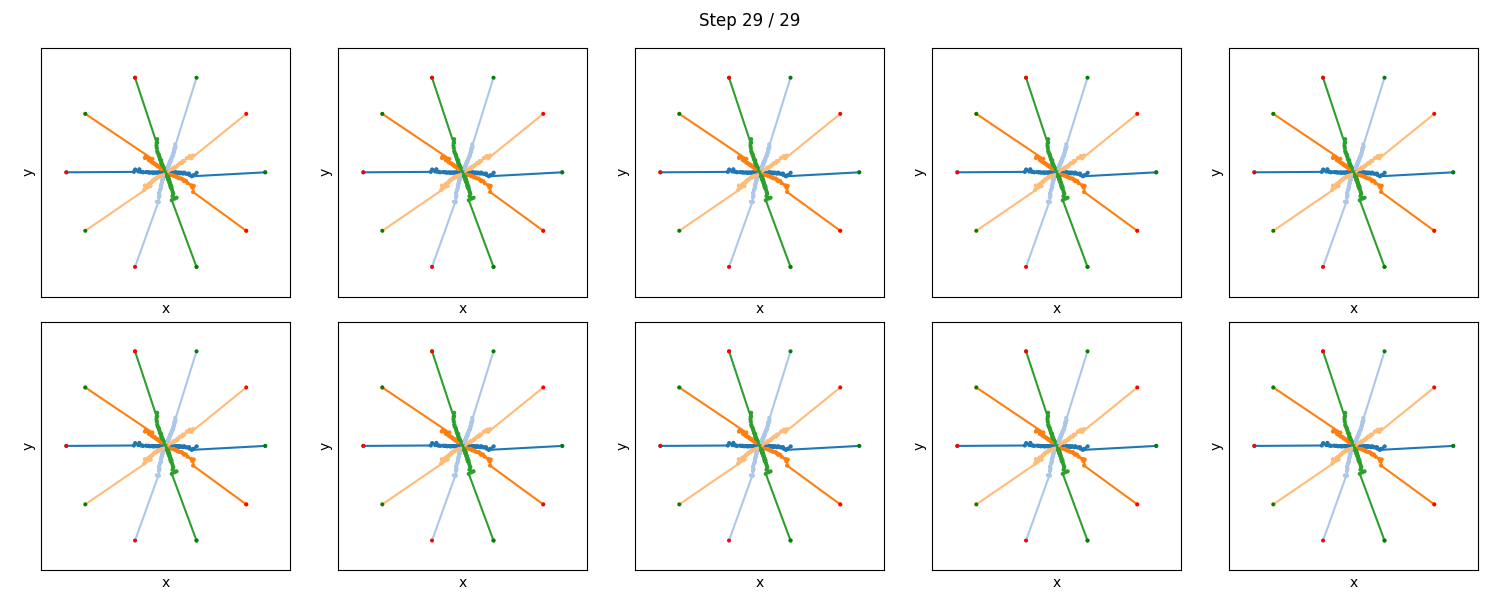
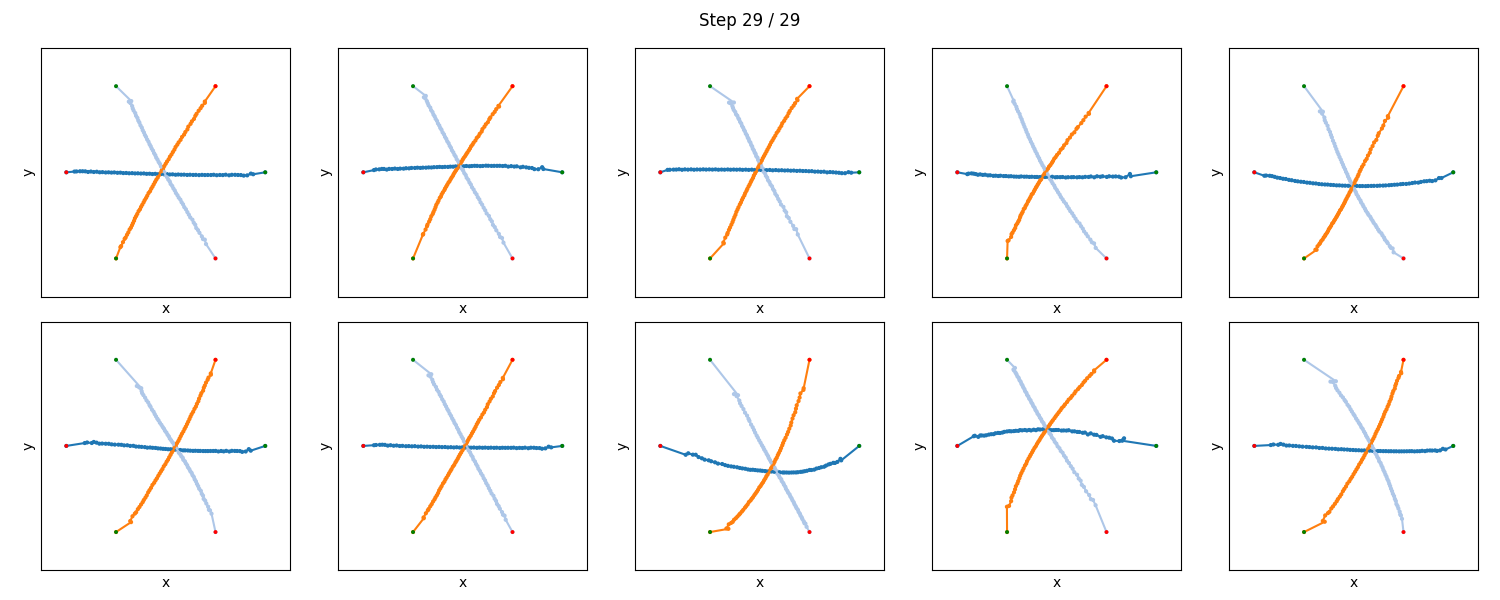
factor seems to work. Try to find the best parameters, and the blend schedule. Add smooth factor if possible

diff --git a/mpd/models/guides/factor_guide_single_agent.py b/mpd/models/guides/factor_guide_single_agent.py
@@ -15,7 +15,6 @@ from pyro import poutine
 from pyro.poutine import trace # debug
 
 # Guide 
-
 class Guide(PyroModule):
     """
         Guide for SVI. 
@@ -28,21 +27,21 @@ class Guide(PyroModule):
         self.agent_idx = agent_idx
         self.device = X_noisy.device
 
-        # Place Holders
-        self.loc = PyroParam(torch.zeros(self.B, self.H-2, self.D, device=self.device, requires_grad=True))
-        self.scales = PyroParam(torch.full((self.B, self.H-2, self.D), 1.0, device=self.device, requires_grad=True),
-                                    constraint=constraints.positive)
+        # Permute Batch as guide
+        perm = torch.randperm(self.B)
+        # X_perm = X_noisy[perm]
+        X_perm = X_noisy
+        self.loc = PyroParam(X_perm[:, agent_idx, 1:-1,]) # (B, H-2, D)
+        self.log_scales = PyroParam(torch.full((self.B, self.H-2, self.D), -1.0, device=self.device),
+                                    constraint=constraints.greater_than(-10))
 
     def forward(self, *args, **kwargs):
 
-        assert self.loc.requires_grad, "Guide.loc is not differentible!" 
-
         # Use initial noisy trajectory as sampling guide
         with pyro.plate("batch", self.B):
-            pyro.sample("z", dist.Normal(self.loc, self.scales).to_event(2))
+            pyro.sample("z", dist.Normal(self.loc, self.log_scales.exp()).to_event(2))
 
 # Model
-
 class FactorModel(PyroModule):
     """
         Collision avoidance model, supports trajectory update
@@ -88,8 +87,8 @@ class FactorModel(PyroModule):
             ], dim=1)
 
             # Collision Avoidance Factor
-            xi = x.unsqueeze(1) # (B, 1, H, D)
-            xj = self.X_noisy   # (B, N, H, D)
+            xi = x[..., :2].unsqueeze(1) # (B, 1, H, 2) only the first two dim are related to position. Same below
+            xj = self.X_noisy[..., :2]   # (B, N, H, 2)
             dists_sq = ((xi - xj) ** 2).sum(dim=-1)  # (B, N, H)
             repulsion = torch.exp(-dists_sq/(2* self.sigma["collision_factor"] ** 2))
             mask = (dists_sq< self.collision_threshold**2).float()
@@ -100,7 +99,6 @@ class FactorModel(PyroModule):
             agent_mask[self.agent_idx] = 0.0
             penalty_terms = penalty_terms * agent_mask.view(1, self.N, 1) # (B, N, H)
             penalty = -self.alpha_bar * penalty_terms.sum(dim=[1, 2]) # (B,)
-
             pyro.factor(f"collsion_{self.agent_idx}", penalty)
         
 # Module 
@@ -149,10 +147,9 @@ class FactorGuideSingleAgent:
         X_noisy = X_noisy.detach()
         num_agents = X_noisy.shape[1]
         X_refined = X_noisy.clone().detach()
-        blend = torch.exp(-alpha_bar**2)
+        # blend = torch.exp(-alpha_bar**2)
         # blend = (1 - alpha_bar)**2  
-        # blend = 1 / (1 + torch.exp(10 * (alpha_bar - 0.5)))
-
+        blend = 1 / (1 + torch.exp(10 * (alpha_bar - 0.5)))
 
         for agent_idx in range(num_agents):
             self.update_inputs(X_noisy=X_noisy, agent_idx=agent_idx, alpha_bar=alpha_bar)
@@ -160,6 +157,8 @@ class FactorGuideSingleAgent:
             goals = X_noisy[:, agent_idx, -1]
             for step in range(self.steps):
                 loss = self.optimizer.step()
+                if step % 500 == 0:
+                    print(f"Step {step} loss:", loss)
             refined_paths = self.guide.loc.detach()
             refined_paths = torch.cat([
                 starts.unsqueeze(1),

diff --git a/scripts/inference/multi_agent_inference.py b/scripts/inference/multi_agent_inference.py
@@ -54,7 +54,7 @@ def experiment(
     use_guide_on_extra_objects_only: bool = False,
 
     # num_agents: int = 1, # sanity check
-    num_agents: int = 5, # number of agents
+    num_agents: int = 3, # number of agents
 
     n_samples: int = 10,
 
@@ -290,15 +290,15 @@ def experiment(
 
         # Guide params
             
-        collision_threshold = 0.5
+        collision_threshold = 1
 
         # Smaller -> Stronger penalty
         sigma = {
            "position_factor": 1e-2,
-           "collision_factor": 1e-10
+           "collision_factor": 1e-6
         }
-        lr = 1e-3 
-        steps = 100
+        lr = 1e-3
+        steps = 1000
 
         model_guide = FactorGuideSingleAgent(n_samples, num_agents, n_support_points, dataset.state_dim, device,
                                     collision_threshold=collision_threshold,

diff --git a/scripts/pyro_module_test/pyro_module_test.py b/scripts/pyro_module_test/pyro_module_test.py
@@ -68,15 +68,15 @@ class FactorModel(PyroModule):
 
 if __name__ == "__main__":
 
-    device = "cpu"
+    device = "cuda:0"
     B = 10
     H = 64
 
-    num_steps = 5000
+    num_steps = 1000
     lr = 1e-2
 
     # Example: dummy inputs
-    x_noisy = torch.randn(B, H, device=device, requires_grad=True)
+    x_noisy = torch.randn(B, H, device=device)
 
     model = FactorModel(X_noisy=x_noisy)
     guide = Guide(X_noisy=x_noisy)
@@ -89,4 +89,4 @@ if __name__ == "__main__":
         if _ % 500 == 0:
             print(f"Step {_} loss :", loss)
             # print("guide grad", guide.loc.grad)
-    print(start - guide.loc.detach().clone())
+    print(guide.loc.detach().clone())

diff --git a/mpd/models/diffusion_models/diffusion_model_factor.py b/mpd/models/diffusion_models/diffusion_model_factor.py
@@ -88,7 +88,7 @@ class GaussianDiffusionFactorModel(GaussianDiffusionModel):
             trajs_flat, t, cond_dict, context=merged_context, batch_size=B * N, **diffusion_kwargs
         )  
 
-        if model_guide is not None:
+        if model_guide is not None and t > 12:
             alpha_bar_t = self.alphas_cumprod[t].clone().detach().to(samples_flat.device)
 
             # Reshape: (B*N, H, D) -> (B, N, H, D)
